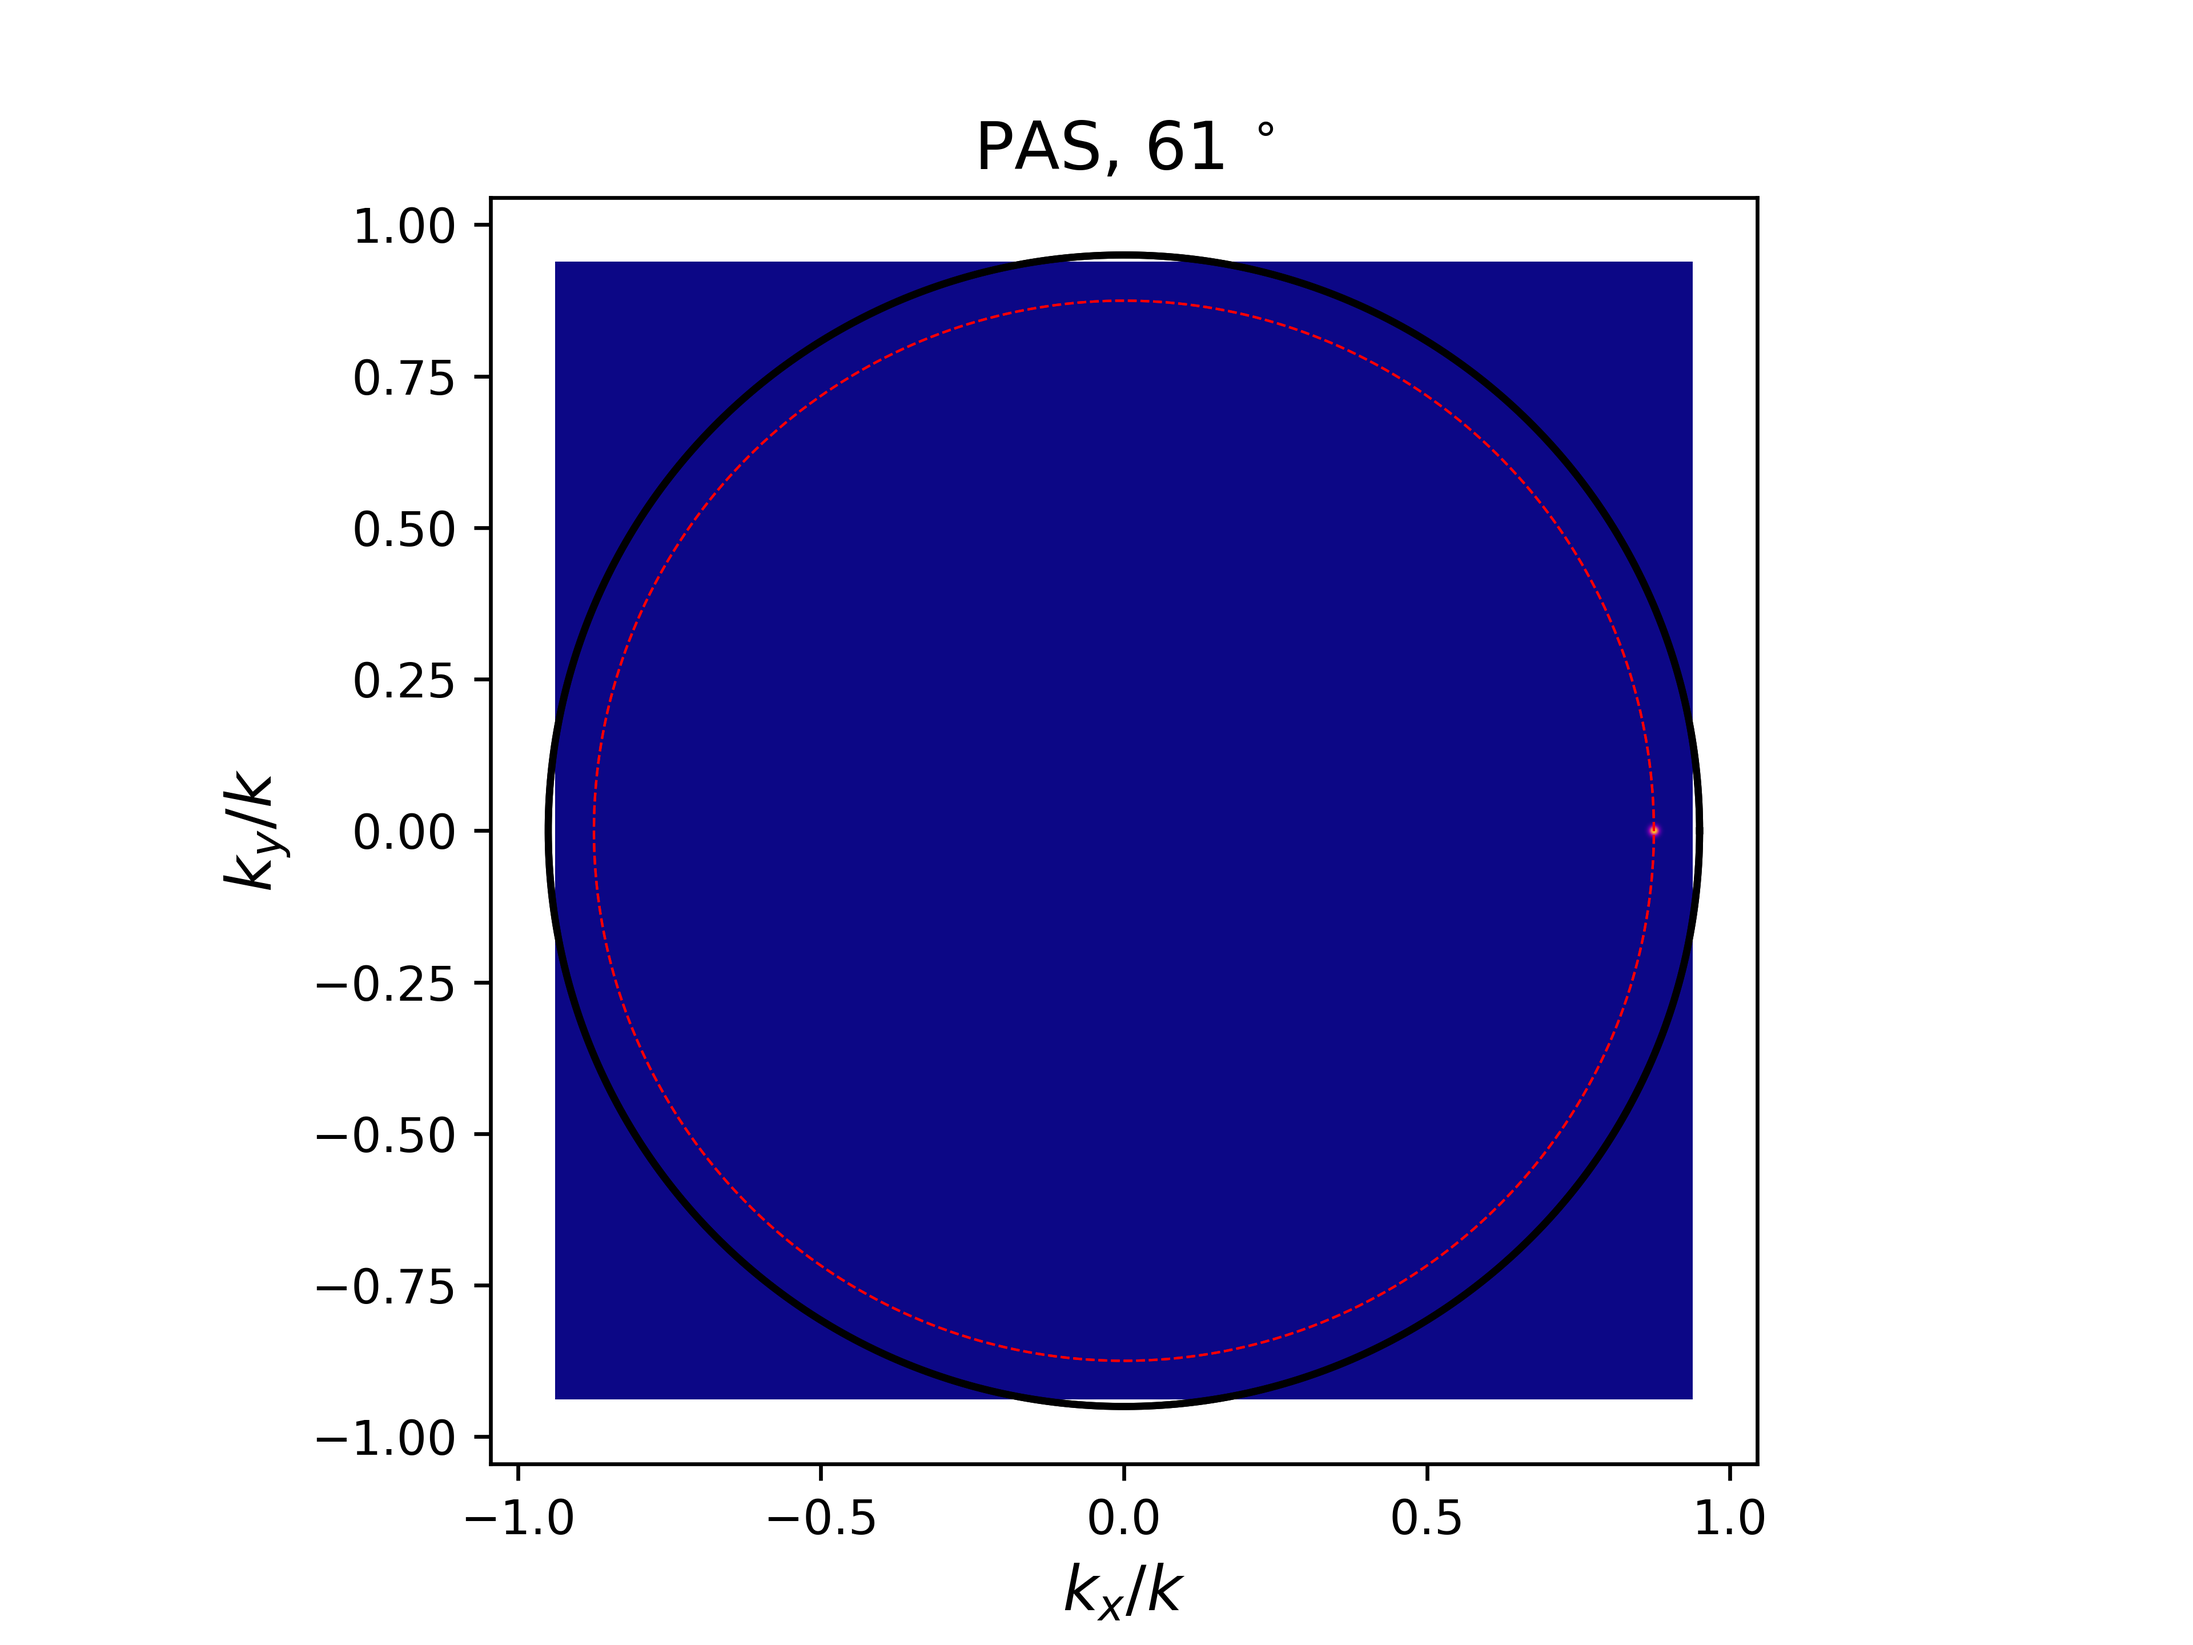
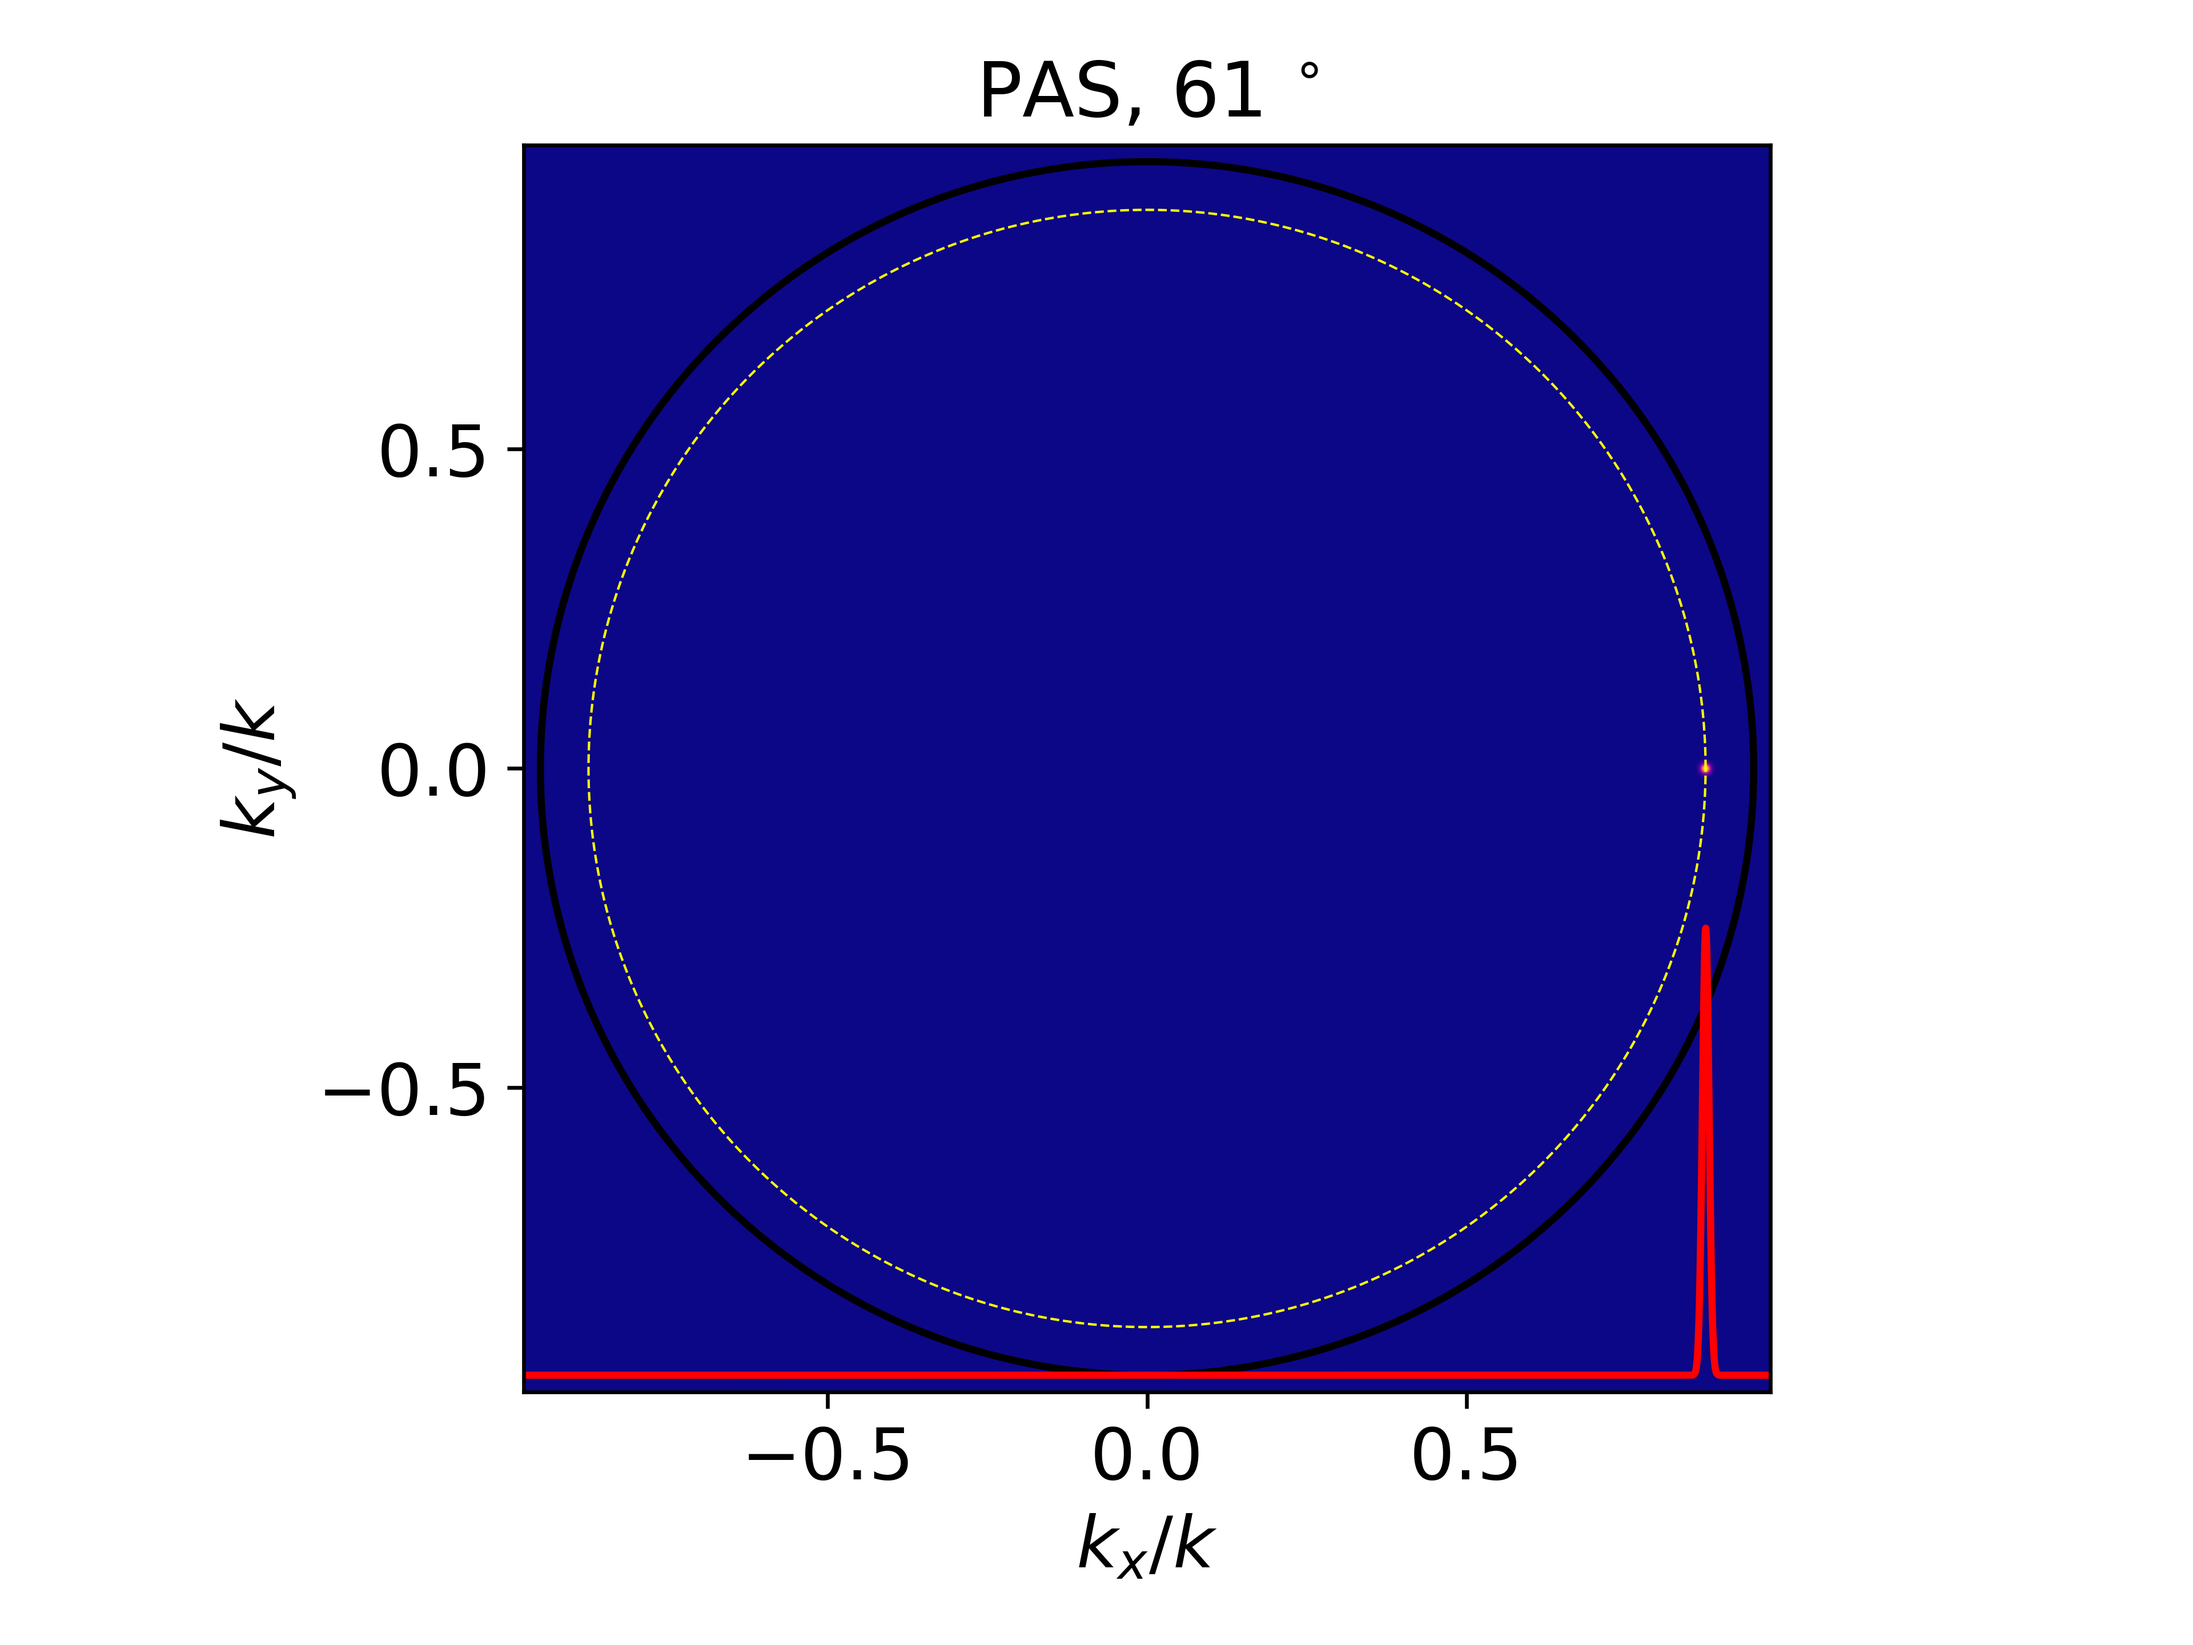
plot updates

diff --git a/deflecting_lens_spherical.py b/deflecting_lens_spherical.py
@@ -57,7 +57,7 @@ NM = 1e-9
 # ### Get deflecting cylindrical lens gradient phase map
 
 #def deflecting_cylindrical_lens_gradient_map(X, Y, n, lam0, anglex, angley, f):
-    return 2*PI - (2*PI*n/lam0)*(np.sqrt(X**2 + f**2) - f) + 2*PI*n/lam0*(X*np.sin(anglex) + Y*np.sin(angley))
+ #   return 2*PI - (2*PI*n/lam0)*(np.sqrt(X**2 + f**2) - f) + 2*PI*n/lam0*(X*np.sin(anglex) + Y*np.sin(angley))
 
 def deflecting_spherical_lens_gradient_map(X, Y, n, lam0, anglex, angley, f):
     return 2*PI - (2*PI*n/lam0)*(np.sqrt(X**2 + Y**2 + f**2) - f) + 2*PI*n/lam0*(X*np.sin(anglex) + Y*np.sin(angley))
@@ -112,9 +112,9 @@ def plot_focused_beam(E_incident, n, NA_objective, ax, ay, Nx, Ny, X, Y, anglex,
     plt.plot(kx_beam, ky_beam, '--', color='yellow', linewidth=0.5)
     plt.xlabel(r'$k_x/k$', fontsize=fontsize_axis)
     plt.ylabel(r'$k_y/k$', fontsize=fontsize_axis)
-    plt.title(r'PAS, cylindrical lens, 61 $^{\circ}$', fontsize=fontsize_title)
+    plt.title(r'PAS, spherical lens, 61 $^{\circ}$', fontsize=fontsize_title)
     plt.tight_layout()
-    plt.savefig(mypath/'PAS_cylindrical_61.png', dpi=600, format='png')
+    #plt.savefig(mypath/'PAS_cylindrical_61.png', dpi=600, format='png')
     
 
     
@@ -124,8 +124,8 @@ def plot_focused_beam(E_incident, n, NA_objective, ax, ay, Nx, Ny, X, Y, anglex,
 Lx = 1*MM
 Ly = 1*MM
 
-ax = 520*NM
-ay = 520*NM
+ax = 420*NM
+ay = 420*NM
 
 Nx = int(Lx/ax)
 Ny = int(Ly/ay)
@@ -141,13 +141,13 @@ R    = np.sqrt(X**2 + Y**2)
 # Setup loosly focused beam in measurement
 lam0        = 976*NM
 n_air       = 1
-omega0      = 30*UM
+omega0      = 100*UM
 offset_x    = 0
 offset_y    = 0
 
 NA_objective = 0.95
 
-anglex = 61*RAD
+anglex = 55*RAD
 angley = 0*RAD
 
 f = 800*UM

diff --git a/linear_phase_gradient.py b/linear_phase_gradient.py
@@ -114,16 +114,26 @@ def plot_three_diffractive_orders(E_incident, ax, ay, Nx, Ny, X, Y, anglex, eta=
     ax2.plot(kx_objective, ky_objective, color='black')
     ax2.plot(kx_beam, ky_beam, '--', color='red', linewidth=0.5)
     
-    fontsize_title  = 14
-    fontsize_axis   = 13
+    fontsize_title  = 16
+    fontsize_axis   = 15
+    
+    #print(I_k)
+    y_cs_integrated = np.sum(I_k, axis=0)[:-1]
+    # print(np.argmax(y_cs_integrated))
+    # print('-----------')
+    # print(kx[0:-1])
     
     plt.figure(2)
     plt.imshow(I_k, extent=extent_k, cmap='plasma')
     plt.plot(kx_objective, ky_objective, color='black')
-    plt.plot(kx_beam, ky_beam, '--', color='red', linewidth=0.5)
+    plt.plot(kx_beam, ky_beam, '--', color='yellow', linewidth=0.5)
+    plt.plot(kx[0:-1], 0.7*(y_cs_integrated/max(y_cs_integrated))-0.95, 'red')
     plt.xlabel(r'$k_x/k$', fontsize=fontsize_axis)
     plt.ylabel(r'$k_y/k$', fontsize=fontsize_axis)
     plt.title(r'PAS, 61 $^{\circ}$', fontsize=fontsize_title)
+    plt.yticks([-0.5, 0, 0.5], fontsize = fontsize_axis)
+    plt.xticks([-0.5, 0, 0.5], fontsize = fontsize_axis)
+    plt.tight_layout()
     plt.savefig(mypath/'PAS_61.png', dpi=600, format='png')
     
     
@@ -133,8 +143,8 @@ def plot_three_diffractive_orders(E_incident, ax, ay, Nx, Ny, X, Y, anglex, eta=
 Lx = 2*MM
 Ly = 2*MM
 
-ax = 520*NM
-ay = 520*NM
+ax = 500*NM
+ay = 500*NM
 
 Nx = int(Lx/ax)
 Ny = int(Ly/ay)

diff --git a/deflecting_lens_cylindrical.py b/deflecting_lens_cylindrical.py
@@ -121,8 +121,8 @@ def plot_focused_beam(E_incident, n, NA_objective, ax, ay, Nx, Ny, X, Y, anglex,
 Lx = 1*MM
 Ly = 1*MM
 
-ax = 520*NM
-ay = 520*NM
+ax = 500*NM
+ay = 500*NM
 
 Nx = int(Lx/ax)
 Ny = int(Ly/ay)
@@ -138,16 +138,16 @@ R    = np.sqrt(X**2 + Y**2)
 # Setup loosly focused beam in measurement
 lam0        = 976*NM
 n_air       = 1
-omega0      = 30*UM
+omega0      = 100*UM
 offset_x    = 0
 offset_y    = 0
 
 NA_objective = 0.95
 
-anglex = 61*RAD
+anglex = 65*RAD
 angley = 0*RAD
 
-f = 800*UM
+f = 1000*UM
 
 E_incident = np.exp(-((X - offset_x)**2 + (Y - offset_y)**2)/omega0**2)
 
